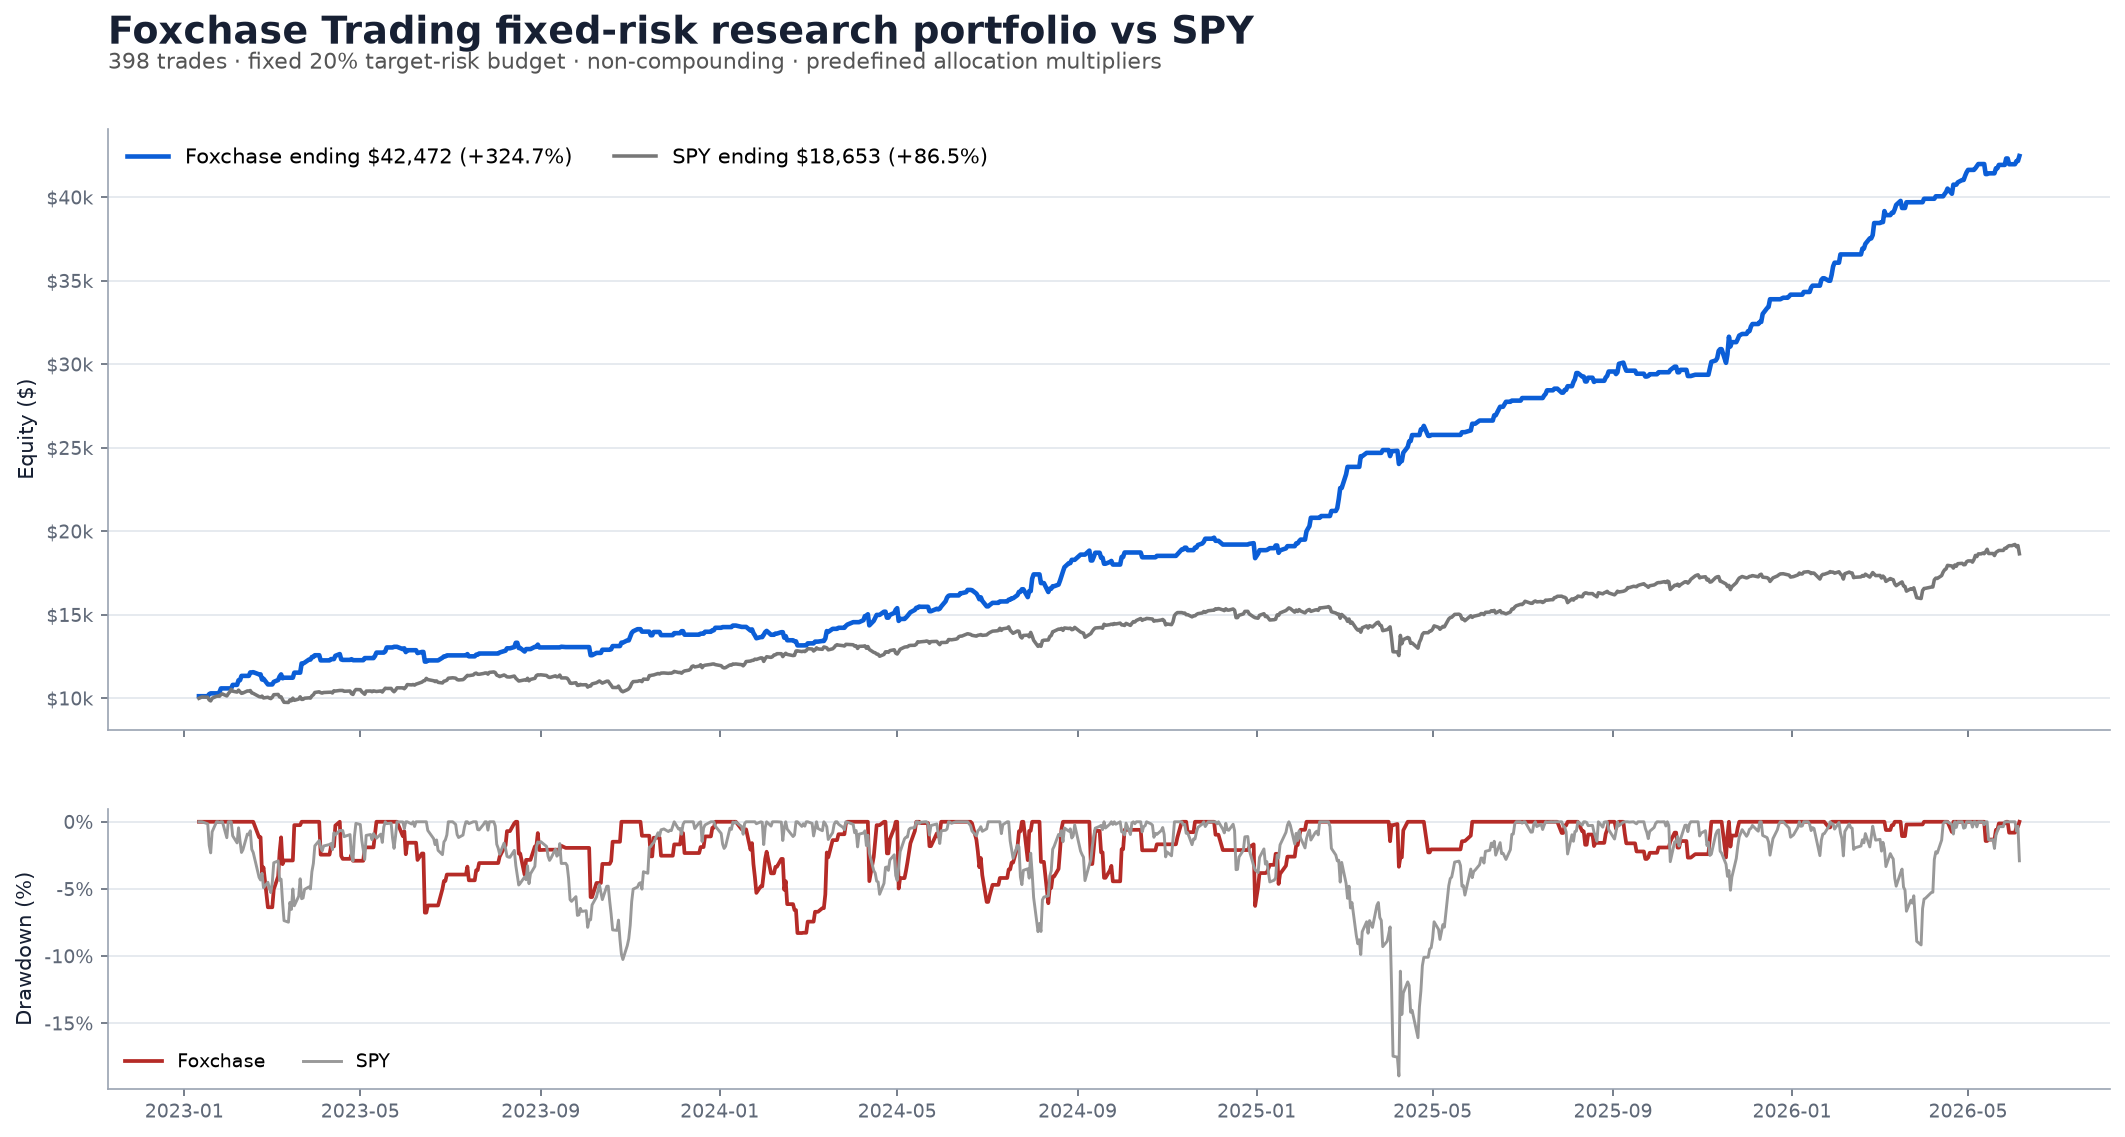
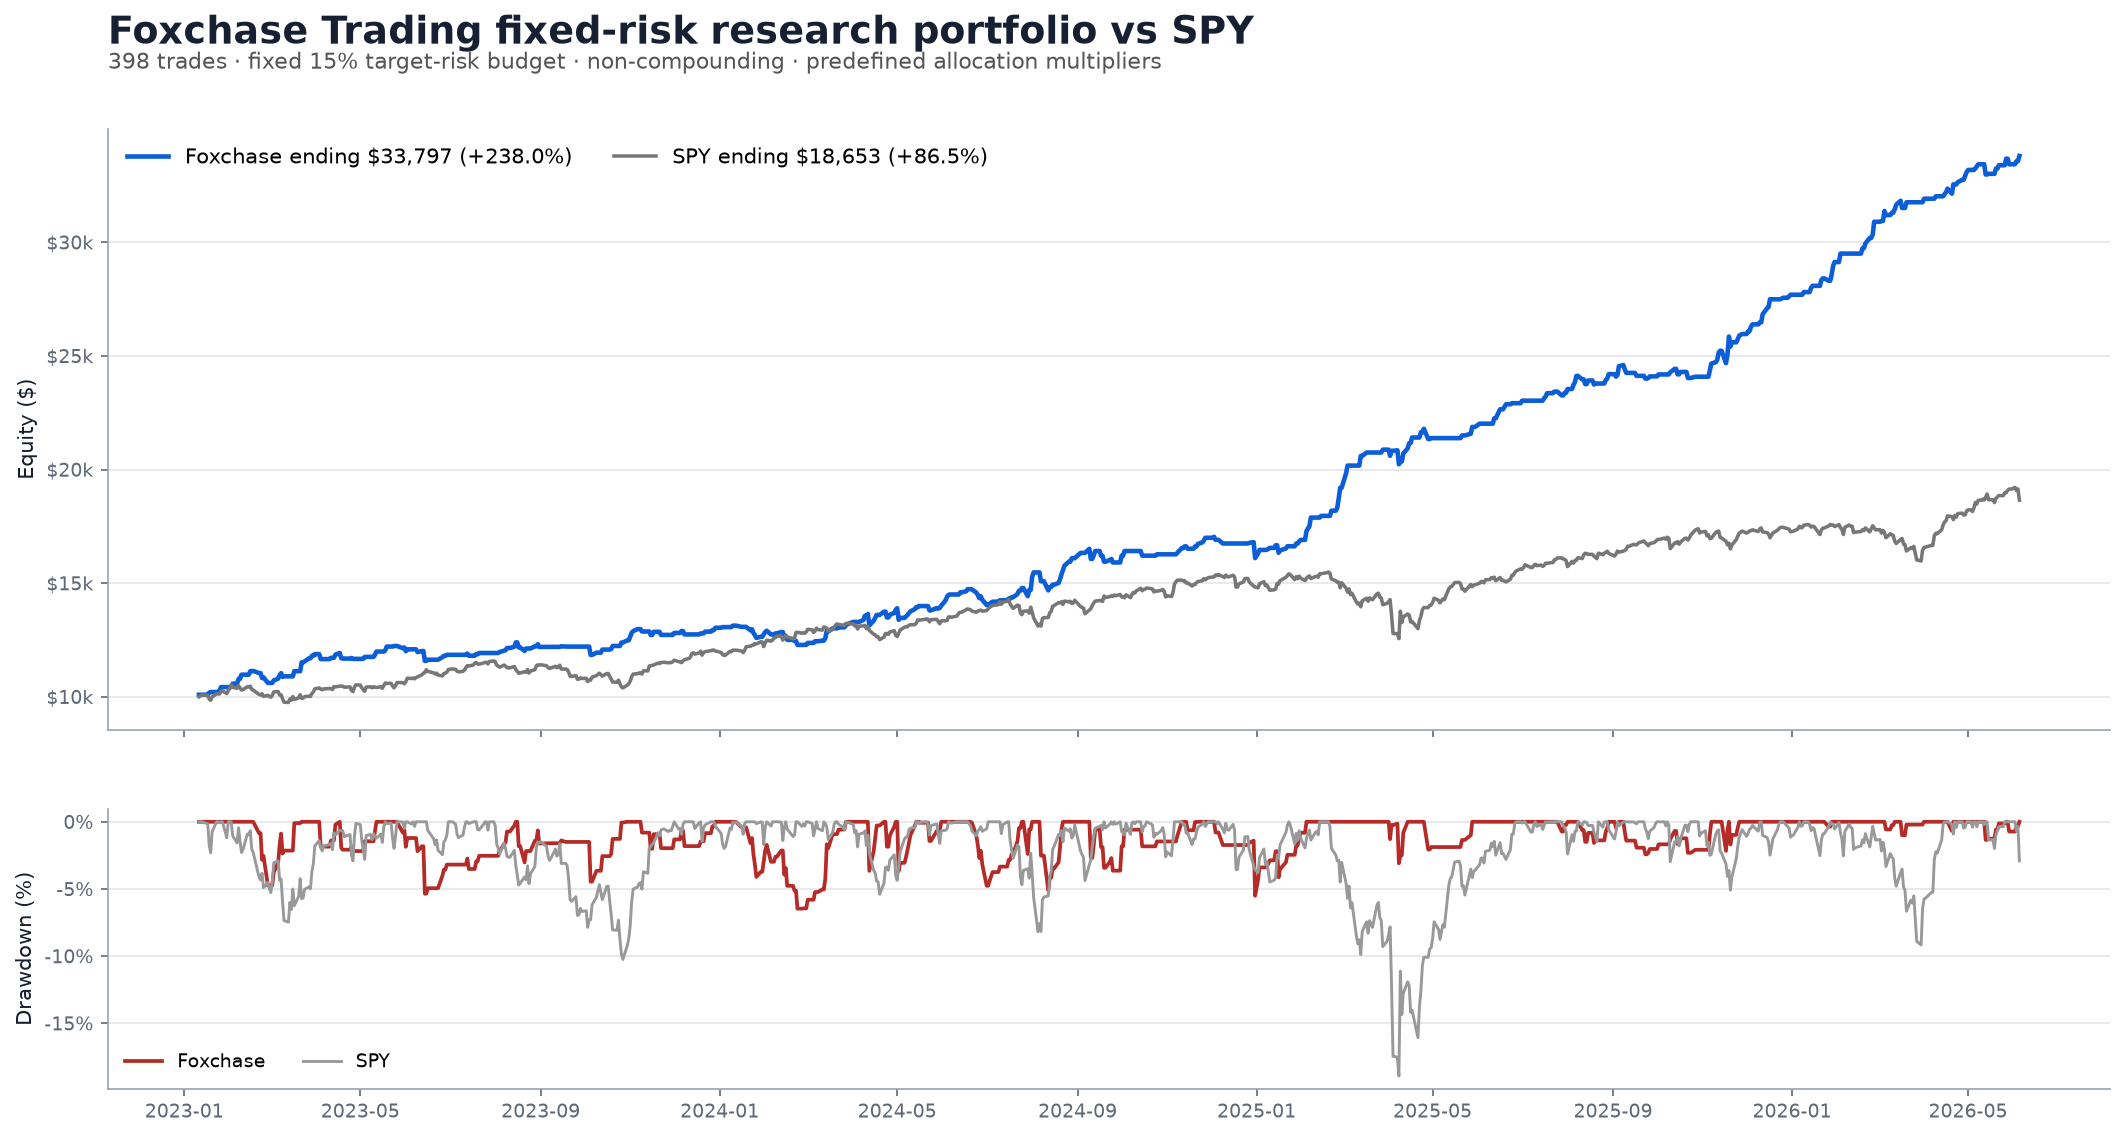
Align fixed research chart with 15 percent risk

diff --git a/algo-pnl.html b/algo-pnl.html
@@ -590,13 +590,13 @@ function setTextIfExists(id, value) {
 
     <h2>Research Backtest</h2>
     <div class="pnl-note"><strong>Research backtest, not live performance:</strong> Results are hypothetical and do not reflect the live account over the full test period. Past performance does not guarantee future results. <strong>Last updated August 22, 2026.</strong></div>
-    <div class="research-metrics"><div class="research-card"><div class="research-label">Backtest Sample</div><div class="research-value">398 trades</div></div><div class="research-card"><div class="research-label">Research P&amp;L</div><div class="research-value" id="researchPnl">+$32,472</div></div><div class="research-card"><div class="research-label">Ending Equity</div><div class="research-value" id="researchEndingEquity">$42,472</div></div><div class="research-card"><div class="research-label">CAGR</div><div class="research-value" id="researchCagr">53.06%</div></div><div class="research-card"><div class="research-label">Sharpe Ratio</div><div class="research-value" id="researchSharpe">3.066</div></div><div class="research-card"><div class="research-label">Max Drawdown</div><div class="research-value" id="researchMaxDrawdown">-8.28%</div></div><div class="research-card"><div class="research-label">Win Rate</div><div class="research-value">77.89%</div></div><div class="research-card"><div class="research-label">Average Trade</div><div class="research-value" id="researchAverageTrade">$81.59</div></div><div class="research-card"><div class="research-label">Risk Framework</div><div class="research-value" id="researchRiskFramework">20% fixed</div></div></div>
+    <div class="research-metrics"><div class="research-card"><div class="research-label">Backtest Sample</div><div class="research-value">398 trades</div></div><div class="research-card"><div class="research-label">Research P&amp;L</div><div class="research-value" id="researchPnl">+$23,797</div></div><div class="research-card"><div class="research-label">Ending Equity</div><div class="research-value" id="researchEndingEquity">$33,797</div></div><div class="research-card"><div class="research-label">CAGR</div><div class="research-value" id="researchCagr">43.11%</div></div><div class="research-card"><div class="research-label">Sharpe Ratio</div><div class="research-value" id="researchSharpe">3.131</div></div><div class="research-card"><div class="research-label">Max Drawdown</div><div class="research-value" id="researchMaxDrawdown">-6.47%</div></div><div class="research-card"><div class="research-label">Win Rate</div><div class="research-value">77.89%</div></div><div class="research-card"><div class="research-label">Average Trade</div><div class="research-value" id="researchAverageTrade">$59.79</div></div><div class="research-card"><div class="research-label">Risk Framework</div><div class="research-value" id="researchRiskFramework">15% fixed</div></div></div>
     <div style="display:flex;gap:8px;flex-wrap:wrap;margin:18px 0 0;" role="group" aria-label="Research chart sizing">
-      <button type="button" id="fixedSizingButton" class="btn btn-dark btn-sm" onclick="showResearchSizing('fixed')">20% fixed · Non-compounding</button>
+      <button type="button" id="fixedSizingButton" class="btn btn-dark btn-sm" onclick="showResearchSizing('fixed')">15% fixed · Non-compounding</button>
       <button type="button" id="compoundedSizingButton" class="btn btn-outline-dark btn-sm" onclick="showResearchSizing('compounded')">15% · Compounded</button>
     </div>
     <div class="chart-box research-chart-box"><img id="researchSizingChart" src="/images/foxchase_fixed_risk_vs_spy.png?v=20260822-public-sizing-toggle" alt="Foxchase Trading fixed-risk research portfolio versus SPY buy and hold"></div>
-    <p class="small" id="researchSizingNote"><strong>Sizing note:</strong> This comparison uses a fixed 20% target-risk budget based on the $10,000 starting account rather than increasing risk as equity grows. Predefined allocation multipliers still apply.</p>
+    <p class="small" id="researchSizingNote"><strong>Sizing note:</strong> This comparison uses a fixed 15% target-risk budget based on the $10,000 starting account rather than increasing risk as equity grows. Predefined allocation multipliers still apply.</p>
     <p class="small">Test window: January 4, 2023 through June 5, 2026, using the same dates for the SPY benchmark. Setup labels are intentionally anonymized.</p>
     <h3 style="margin-top:30px;">Rolling and Sequence-Risk Validation</h3>
     <p class="small">Rolling results below use the current 15% live-risk assumption and predefined allocation multipliers. Across the pre-2026 portion, the strategy returned 415.68% versus 72.58% for aligned SPY price performance while retaining a lower historical drawdown.</p>
@@ -619,7 +619,7 @@ function setTextIfExists(id, value) {
         : "/images/foxchase_fixed_risk_vs_spy.png?v=20260822-public-sizing-toggle";
       const metrics = isCompounded
         ? { pnl: "+$105,344", ending: "$115,344", cagr: "105.38%", sharpe: "5.502", drawdown: "-8.68%", average: "$264.68", framework: "15% sequential" }
-        : { pnl: "+$32,472", ending: "$42,472", cagr: "53.06%", sharpe: "3.066", drawdown: "-8.28%", average: "$81.59", framework: "20% fixed" };
+        : { pnl: "+$23,797", ending: "$33,797", cagr: "43.11%", sharpe: "3.131", drawdown: "-6.47%", average: "$59.79", framework: "15% fixed" };
       document.getElementById("researchPnl").textContent = metrics.pnl;
       document.getElementById("researchEndingEquity").textContent = metrics.ending;
       document.getElementById("researchCagr").textContent = metrics.cagr;
@@ -629,7 +629,7 @@ function setTextIfExists(id, value) {
       document.getElementById("researchRiskFramework").textContent = metrics.framework;
       note.innerHTML = isCompounded
         ? "<strong>Sizing note:</strong> This graph uses the validated 15% sequential compounded risk framework and predefined allocation multipliers. Validated runner management is enabled. This hypothetical research curve is separate from the live account performance shown above."
-        : "<strong>Sizing note:</strong> This comparison uses a fixed 20% target-risk budget based on the $10,000 starting account rather than increasing risk as equity grows. Predefined allocation multipliers still apply.";
+        : "<strong>Sizing note:</strong> This comparison uses a fixed 15% target-risk budget based on the $10,000 starting account rather than increasing risk as equity grows. Predefined allocation multipliers still apply.";
       fixed.className = isCompounded ? "btn btn-outline-dark btn-sm" : "btn btn-dark btn-sm";
       compounded.className = isCompounded ? "btn btn-dark btn-sm" : "btn btn-outline-dark btn-sm";
     }
